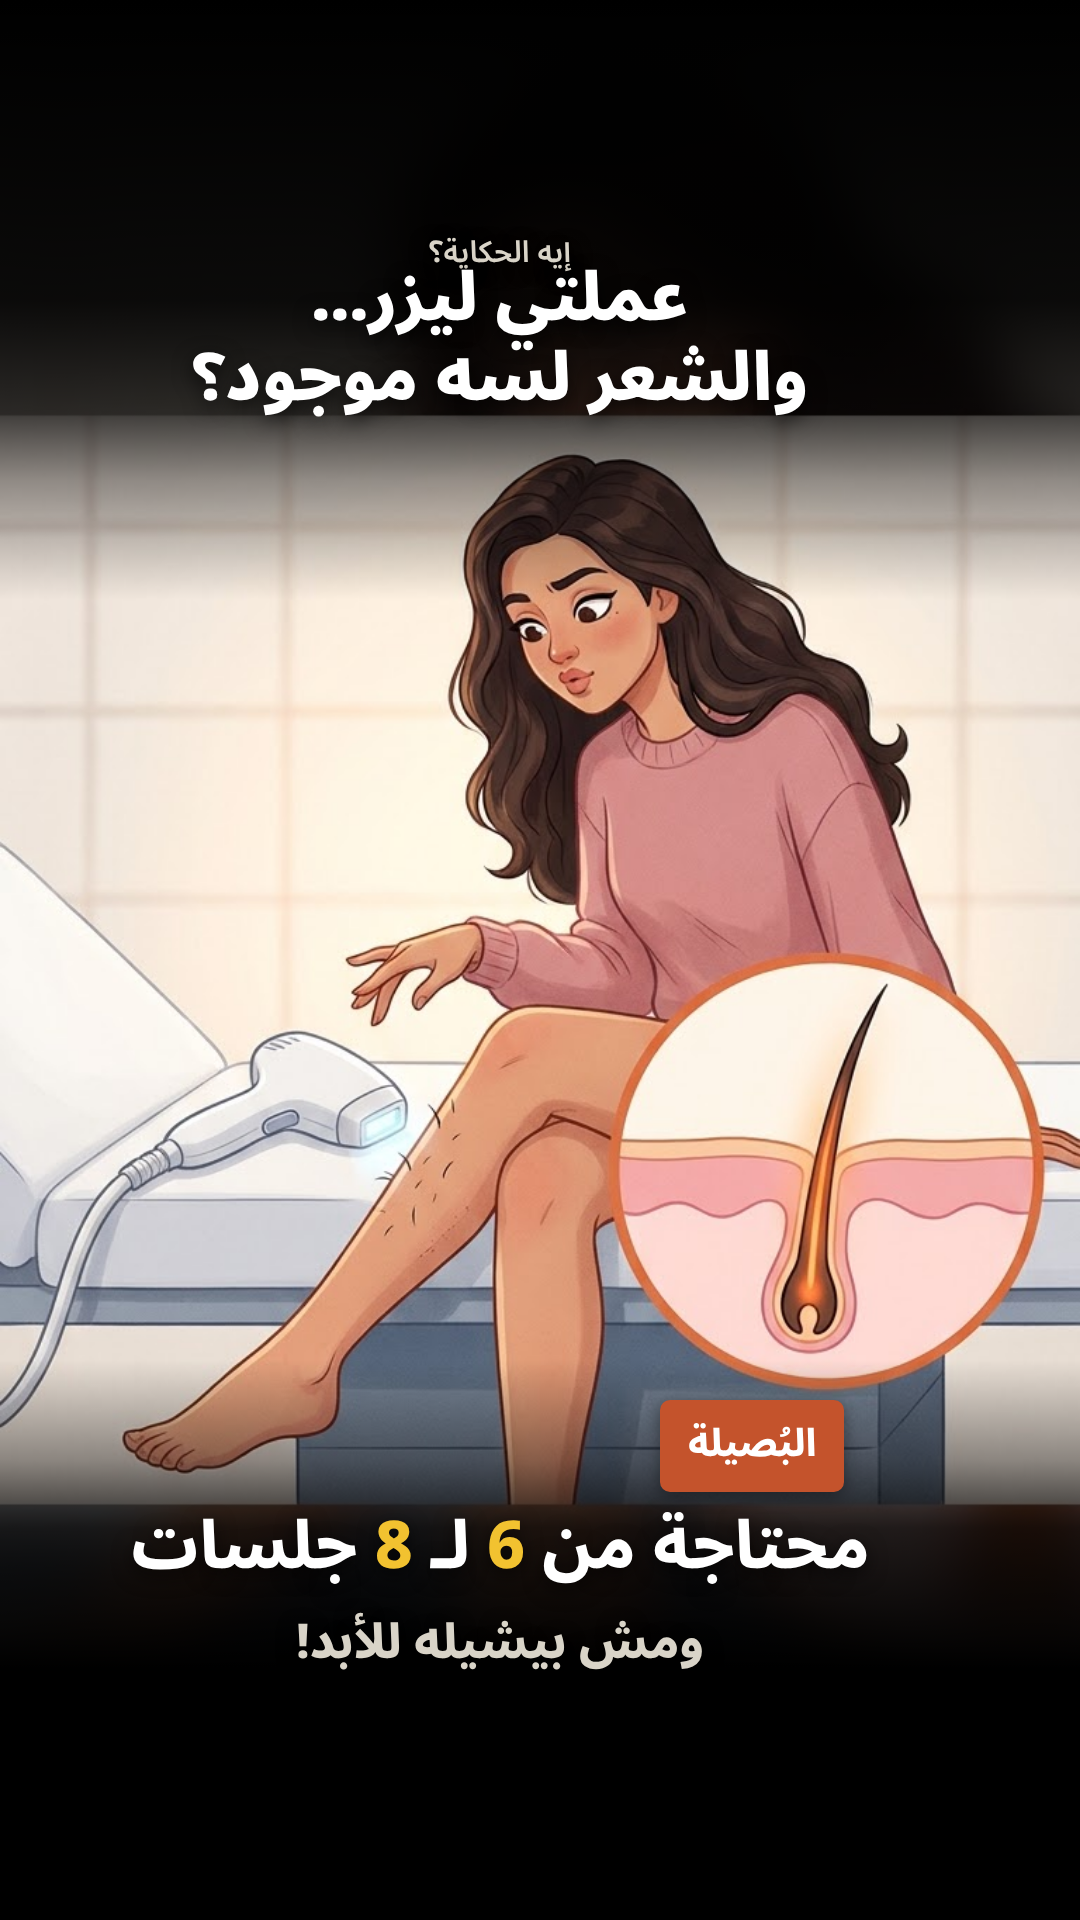
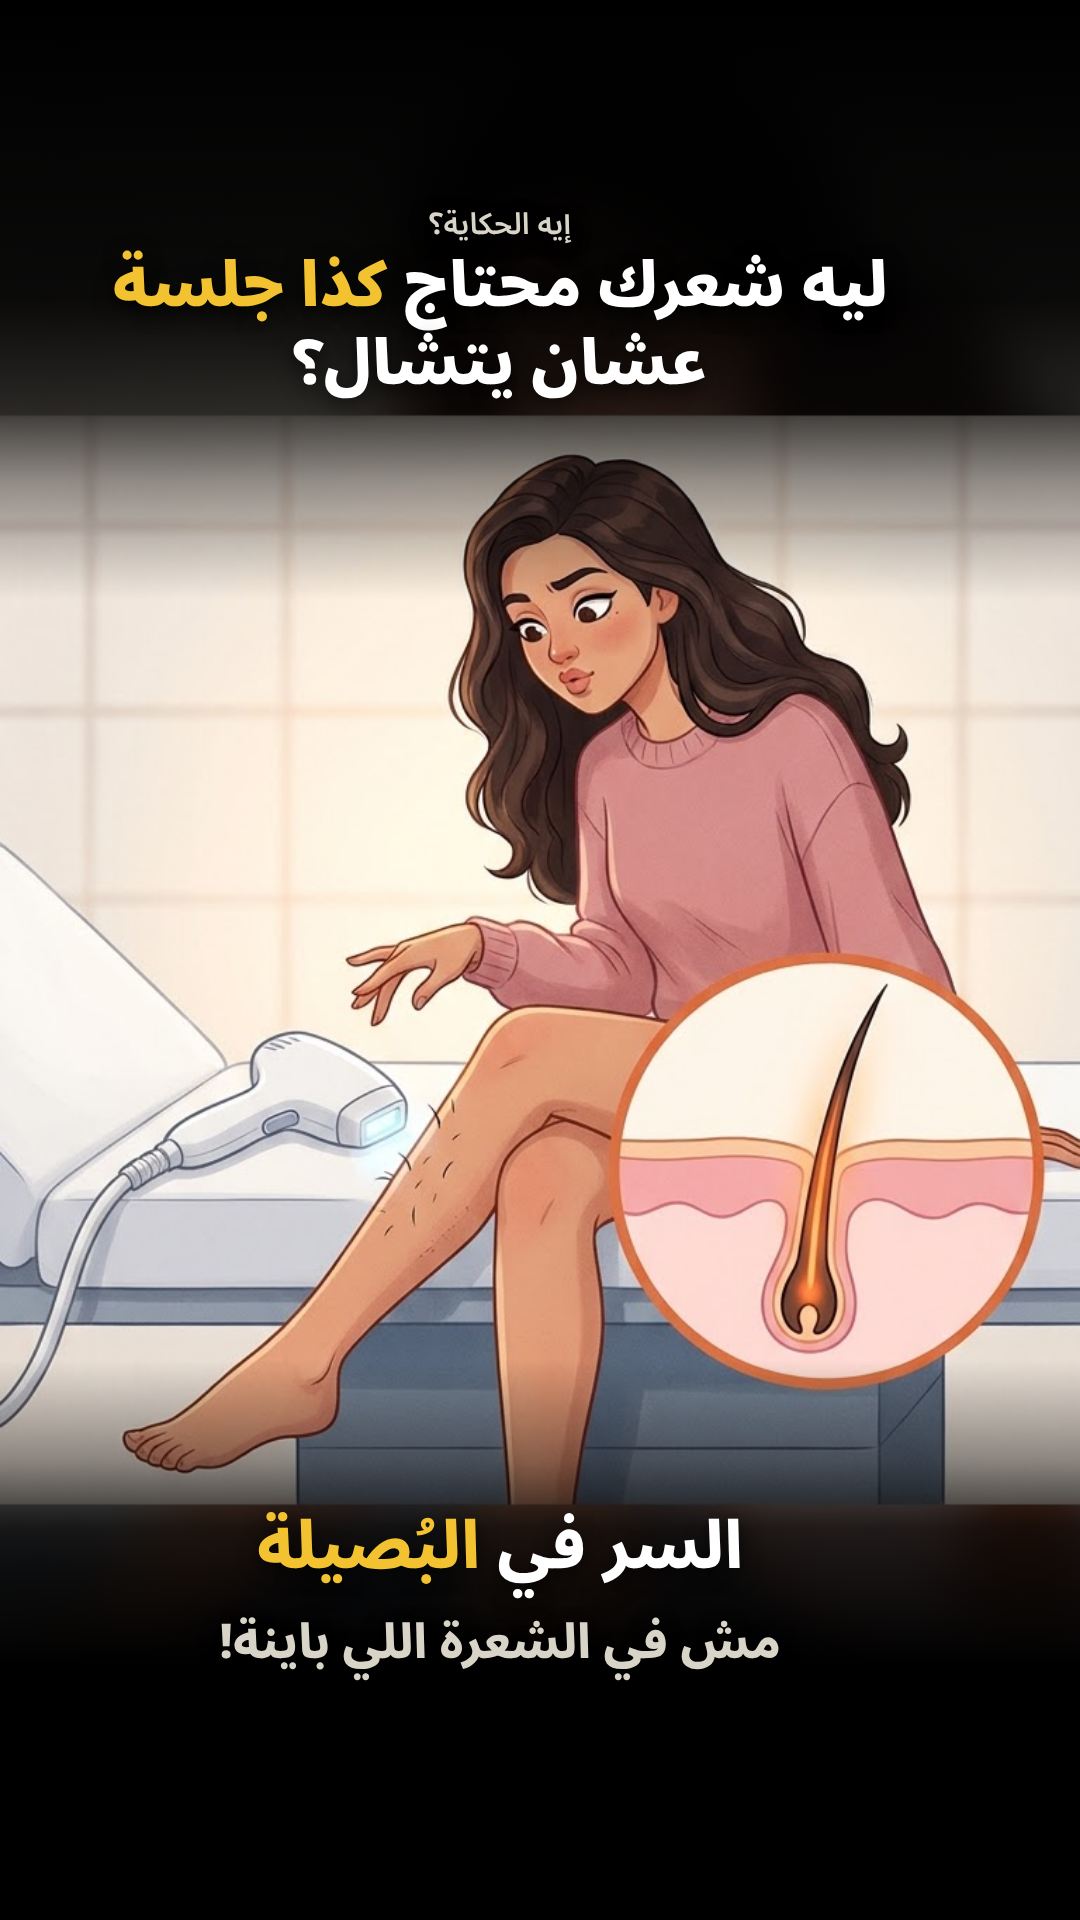
laser-hair cover: question hook
Claude-Session: https://claude.ai/code/session_016TN7FKE73HoqbYAQbW5n3B

Changed region(s): [[0.1222, 0.7188, 0.7944, 0.875], [0.0917, 0.0938, 0.825, 0.2188]]

diff --git a/brand/eh-elhekaya/cover-laser-hair-gemini-tiktok.html b/brand/eh-elhekaya/cover-laser-hair-gemini-tiktok.html
@@ -17,9 +17,8 @@
   <img class="art" src="laser-hair-gemini-art.jpg">
   <div class="fade" style="top:0;height:300px;background:linear-gradient(#000f 0%,#000e 50%,#000b 69%,#0006 80%,#0000)"></div>
   <div class="fade" style="top:680px;height:280px;background:linear-gradient(#0000,#0006 18%,#000c 30%,#000f 55%)"></div>
-  <p class="t" style="top:110px;font:600 15px 'Noto Sans Arabic';color:#d9d4c8">إيه الحكاية؟</p>
-  <p class="t" style="top:130px;font:900 33px/1.2 'Noto Sans Arabic';color:#fff">عملتي ليزر…<br>والشعر لسه موجود؟</p>
-  <div class="tag" style="left:330px;top:700px">البُصيلة</div>
-  <p class="t" style="top:752px;font:800 33px/1.35 'Noto Sans Arabic';color:#fff">محتاجة من <span style="color:#f2c230">6</span> لـ <span style="color:#f2c230">8</span> جلسات<br><span style="font-size:24px;color:#d9d4c8">ومش بيشيله للأبد!</span></p>
+  <p class="t" style="top:96px;font:600 15px 'Noto Sans Arabic';color:#d9d4c8">إيه الحكاية؟</p>
+  <p class="t" style="top:124px;font:900 31px/1.25 'Noto Sans Arabic';color:#fff">ليه شعرك محتاج <span style="color:#f2c230">كذا جلسة</span><br>عشان يتشال؟</p>
+  <p class="t" style="top:752px;font:800 33px/1.35 'Noto Sans Arabic';color:#fff">السر في <span style="color:#f2c230">البُصيلة</span><br><span style="font-size:24px;color:#d9d4c8">مش في الشعرة اللي باينة!</span></p>
 </div>
 </body></html>
